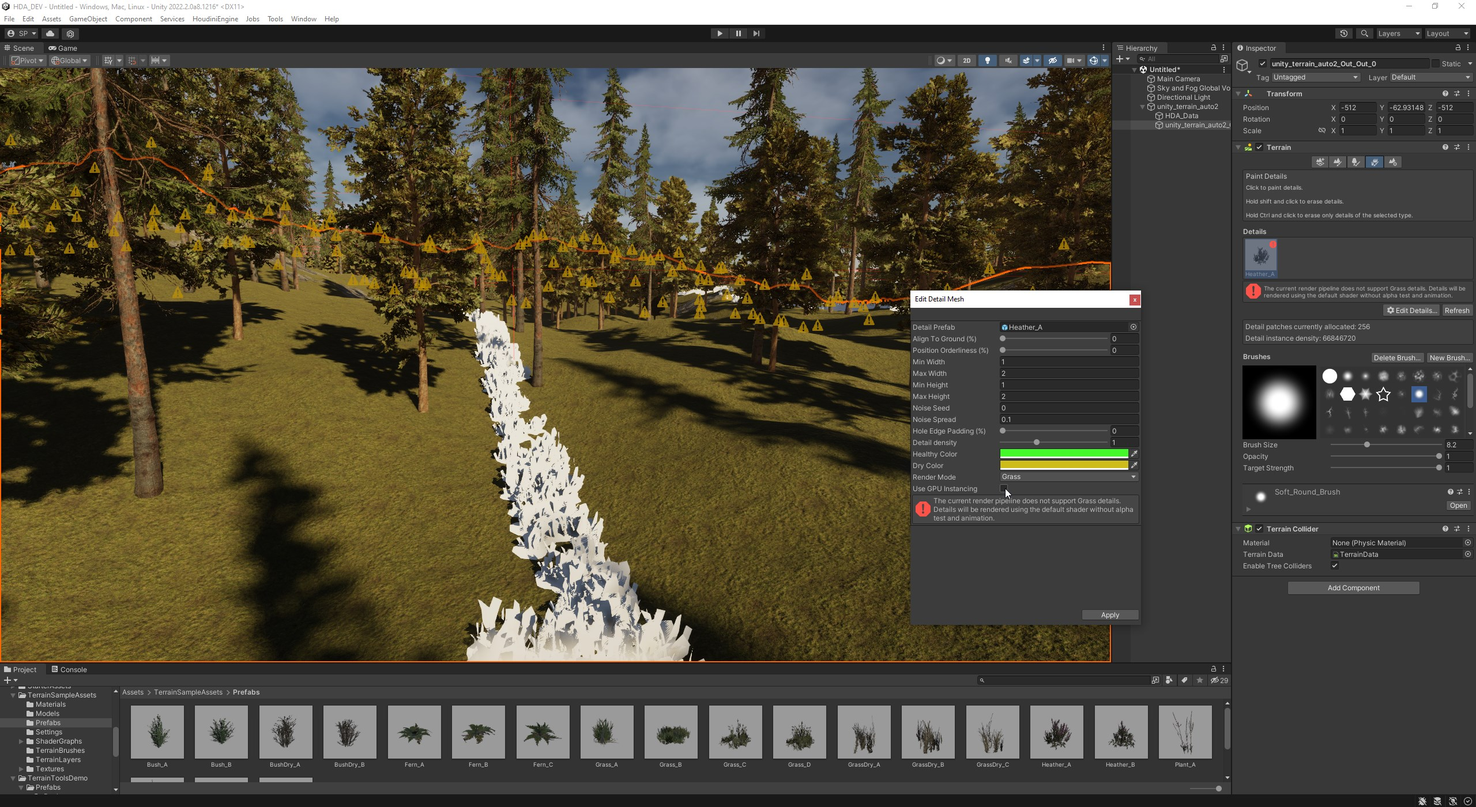
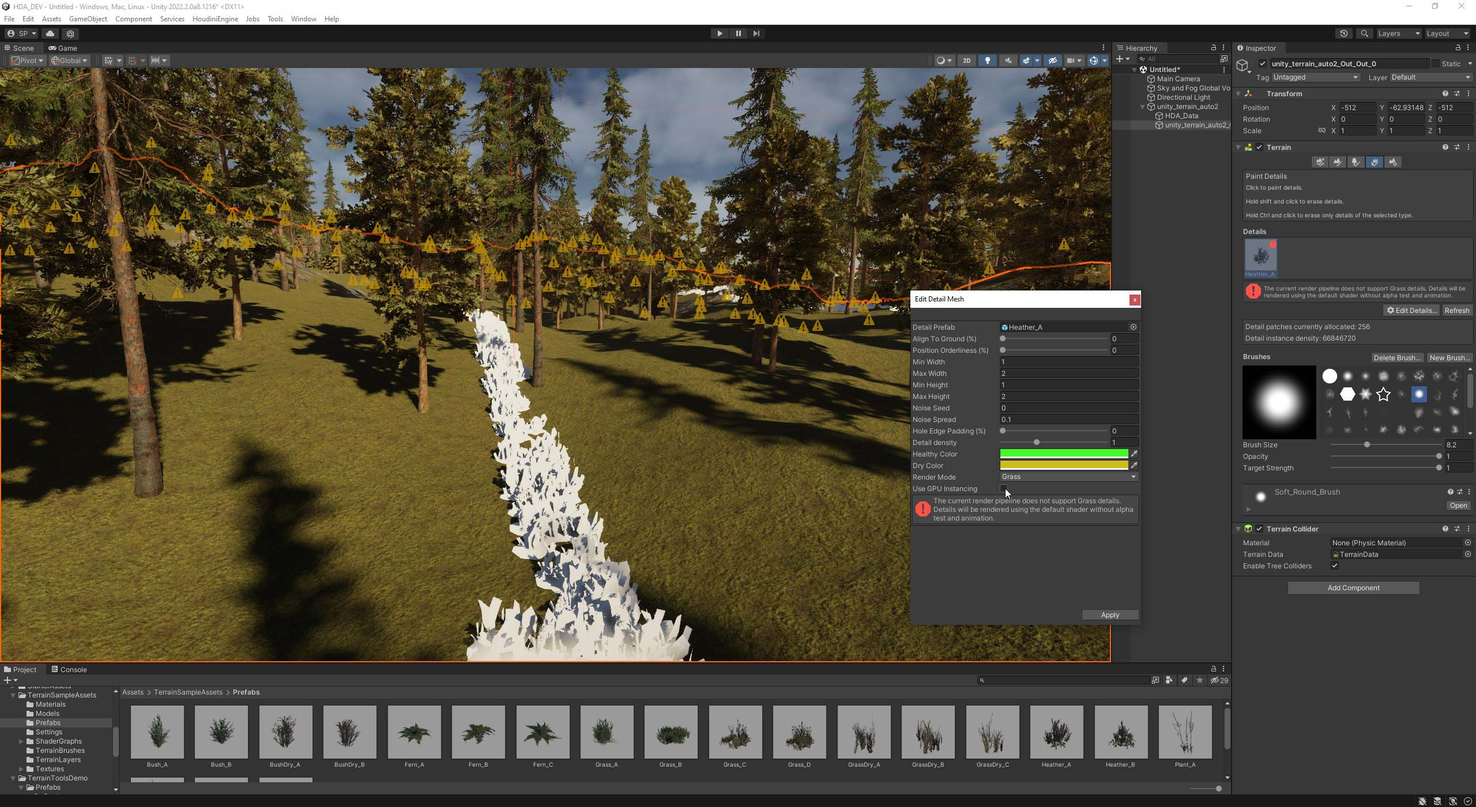
Update Images and readme

diff --git a/README.md b/README.md
@@ -26,19 +26,19 @@ Place the node in houdini
 
 Allow editing of contents
 
-<img src="Documentation/Images/Allow_Edit.png" align="center" />
+<img src="Documentation/Images/Allow_Edit.jpg" align="center" />
 
 
 Save As
 
-<img src="Documentation/Images/Save_As.png" align="center" width="800"/>
+<img src="Documentation/Images/Save_As.jpg" align="center" width="800"/>
 
 
 Remove nodes and replace with your own
 
-<img src="Documentation/Images/Remove_Nodes.png" align="center" width="300"/>
-<img src="Documentation/Images/Nodes_Deleted.png" align="center" width="300"/>
-<img src="Documentation/Images/Replace_Nodes.png" align="center" width="300"/>
+<img src="Documentation/Images/Remove_Nodes.jpg" align="center" width="300"/>
+<img src="Documentation/Images/Nodes_Deleted.jpg" align="center" width="300"/>
+<img src="Documentation/Images/Replace_Nodes.jpg" align="center" width="300"/>
 
 
 Save
